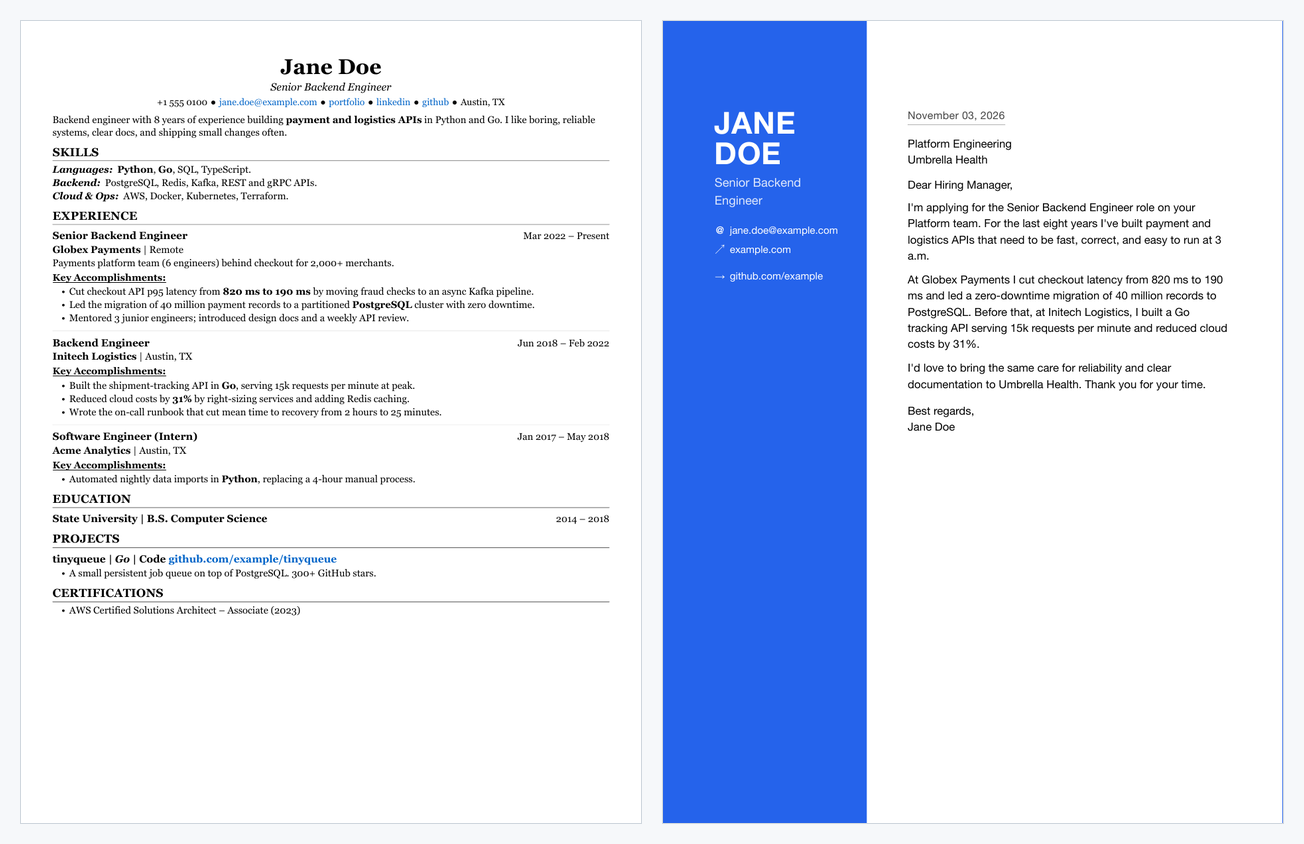
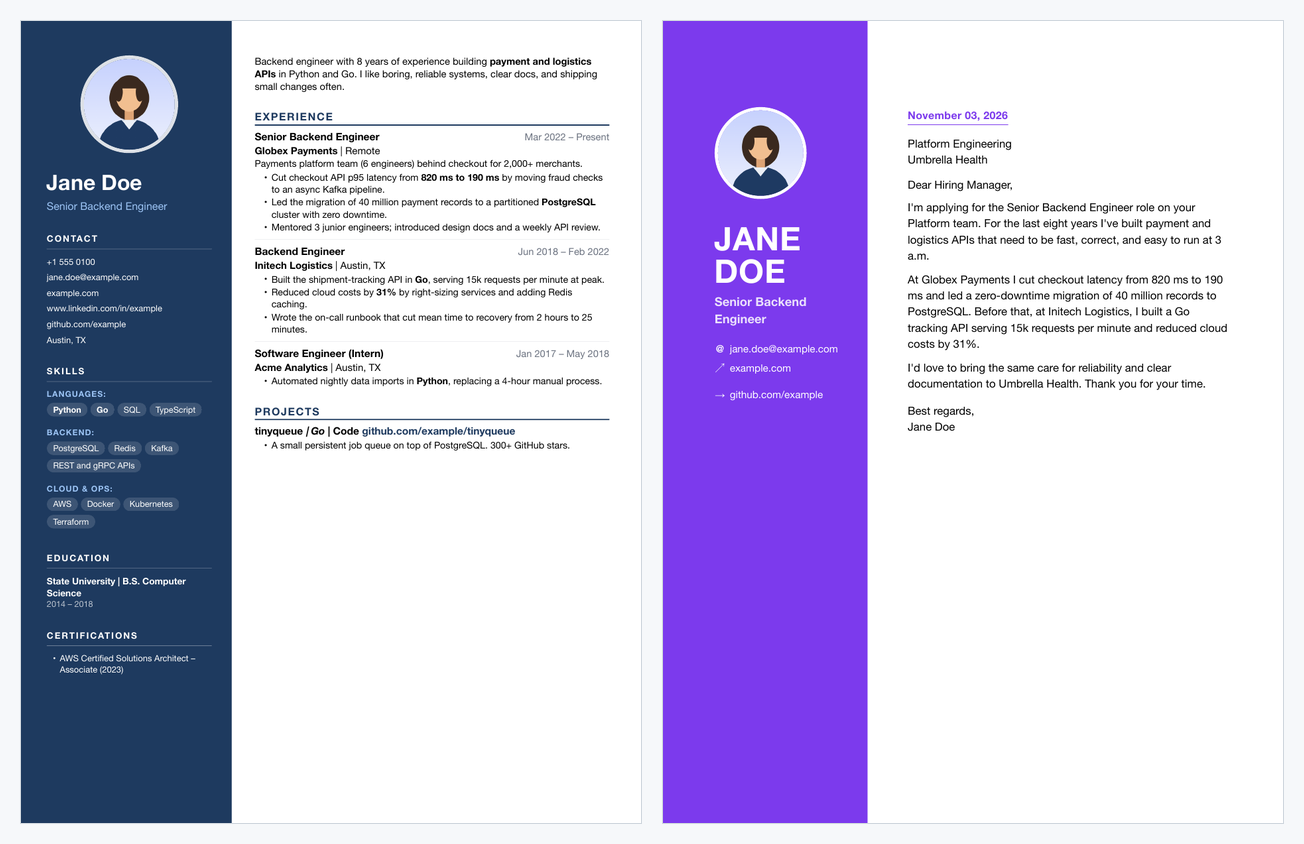
docs: gallery script and previews of all seven themes

diff --git a/docs/make_gallery.py b/docs/make_gallery.py
@@ -1,0 +1,79 @@
+"""Render every theme from the examples and build the README preview images.
+
+    python docs/make_gallery.py   ->  docs/images/hero.png, docs/images/themes.png
+
+Needs WeasyPrint working, Pillow (installed with WeasyPrint) and `pdftoppm`
+from Poppler (`brew install poppler` / `apt install poppler-utils`).
+"""
+from __future__ import annotations
+
+import subprocess
+import tempfile
+from pathlib import Path
+
+from PIL import Image, ImageDraw, ImageFont, ImageOps
+
+from cv_as_code.build import build_file, theme_names
+
+ROOT = Path(__file__).resolve().parent.parent
+EXAMPLES = ROOT / "examples"
+OUT = ROOT / "docs" / "images"
+BG = "#f6f8fa"
+ORDER = ["sidebar", "bold", "executive", "modern", "minimal", "classic", "compact"]
+
+
+def snapshot(yaml_name: str, theme: str, tmp: Path, ats: bool = False) -> Image.Image:
+    out = tmp / f"{theme}{'-ats' if ats else ''}"
+    pdf = next(p for p in build_file(EXAMPLES / yaml_name, out, theme=theme, ats=ats) if p.suffix == ".pdf")
+    subprocess.run(["pdftoppm", "-png", "-r", "110", "-singlefile", str(pdf), str(pdf.with_suffix(""))], check=True)
+    return Image.open(pdf.with_suffix(".png")).convert("RGB")
+
+
+def card(im: Image.Image, width: int) -> Image.Image:
+    im = im.resize((width, round(im.height * width / im.width)), Image.LANCZOS)
+    return ImageOps.expand(im, border=1, fill="#d0d7de")
+
+
+def font(size: int) -> ImageFont.ImageFont:
+    for name in ("/System/Library/Fonts/Helvetica.ttc", "/usr/share/fonts/truetype/dejavu/DejaVuSans-Bold.ttf"):
+        try:
+            return ImageFont.truetype(name, size)
+        except OSError:
+            continue
+    return ImageFont.load_default()
+
+
+def main() -> None:
+    assert sorted(ORDER) == theme_names(), "update ORDER when adding a theme"
+    OUT.mkdir(parents=True, exist_ok=True)
+    with tempfile.TemporaryDirectory() as t:
+        tmp = Path(t)
+        # Hero: two of the most distinctive looks side by side.
+        a, b = card(snapshot("cv.yaml", "sidebar", tmp), 620), card(snapshot("cover_letter.yaml", "bold", tmp), 620)
+        hero = Image.new("RGB", (a.width + b.width + 60, max(a.height, b.height) + 40), BG)
+        hero.paste(a, (20, 20))
+        hero.paste(b, (a.width + 40, 20))
+        hero.save(OUT / "hero.png", optimize=True)
+
+        # Gallery: every theme plus ATS mode, 4 per row, labelled.
+        shots = [(name, snapshot("cv.yaml", name, tmp)) for name in ORDER]
+        shots.append(("ATS mode", snapshot("cv.yaml", "classic", tmp, ats=True)))
+        w, gap, label_h, cols = 360, 24, 40, 4
+        cards = [(name, card(im, w)) for name, im in shots]
+        h = max(c.height for _, c in cards)
+        rows = (len(cards) + cols - 1) // cols
+        sheet = Image.new("RGB", (cols * (w + 2) + (cols + 1) * gap, rows * (h + label_h) + (rows + 1) * gap), BG)
+        draw, f = ImageDraw.Draw(sheet), font(22)
+        for i, (name, c) in enumerate(cards):
+            x = gap + (i % cols) * (w + 2 + gap)
+            y = gap + (i // cols) * (h + label_h + gap)
+            sheet.paste(c, (x, y))
+            draw.text((x + c.width / 2, y + h + 10), name, fill="#24292f", font=f, anchor="ma")
+        sheet.save(OUT / "themes.png", optimize=True)
+    for p in ("hero.png", "themes.png"):
+        im = Image.open(OUT / p)
+        print(f"wrote docs/images/{p} {im.size[0]}x{im.size[1]} {(OUT / p).stat().st_size // 1024} KB")
+
+
+if __name__ == "__main__":
+    main()
